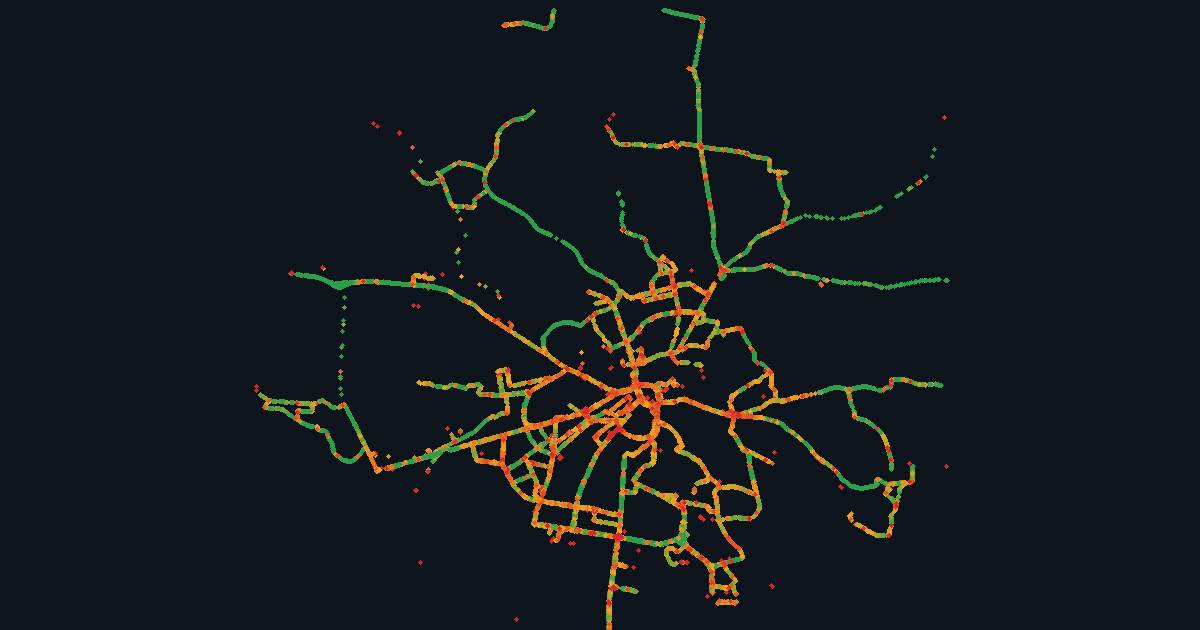
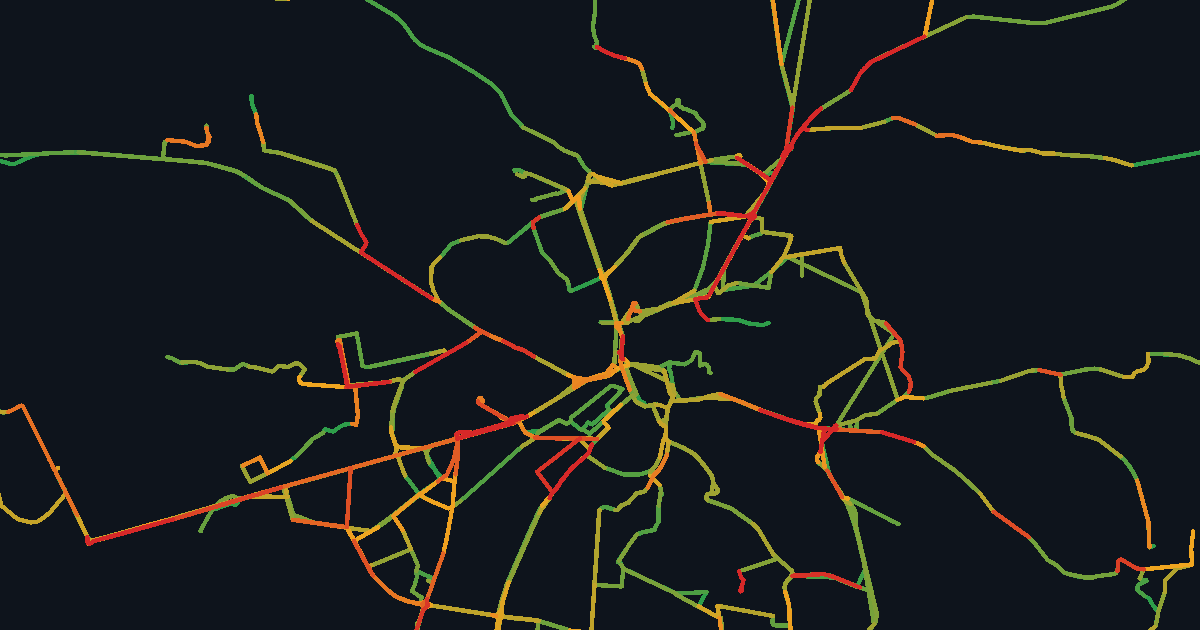
og.png: draw the ride-time map, not speed dots
Colour every leg by weekday 08:00 delay against its off-peak, as the
viewer does, framed on the core of the network. Alt text to match.

diff --git a/web/index.html b/web/index.html
@@ -33,7 +33,7 @@
     <meta property="og:image:height" content="630" />
     <meta
       property="og:image:alt"
-      content="The Lviv bus network drawn as coloured dots, green on the fast outer roads and red through the centre."
+      content="Every Lviv bus leg drawn as a line on a dark ground: green where weekday 08:00 runs as quick as off-peak, red where it takes twice as long, mostly on the radial roads into the centre."
     />
     <meta property="og:locale" content="en_GB" />
 
@@ -46,7 +46,7 @@
     <meta name="twitter:image" content="https://gtfs-speedmap.vbhjckfd.workers.dev/og.png" />
     <meta
       name="twitter:image:alt"
-      content="The Lviv bus network drawn as coloured dots, green on the fast outer roads and red through the centre."
+      content="Every Lviv bus leg drawn as a line on a dark ground: green where weekday 08:00 runs as quick as off-peak, red where it takes twice as long, mostly on the radial roads into the centre."
     />
 
     <script type="application/ld+json">

diff --git a/src/speedmap/make_og.py b/src/speedmap/make_og.py
@@ -1,9 +1,8 @@
-"""Render web/og.png — the social preview — from the aggregated data itself.
+"""Render web/og.png — the social preview — from the built map files themselves.
 
 Deliberately dependency-free: a 1200x630 RGB buffer written out as a PNG by
 hand, so the project keeps its `pip install` down to the pipeline's needs. No
-basemap, just the dots on a dark ground, which is what the map is recognisable
-by anyway.
+basemap, just every leg on a dark ground, coloured as the map colours it.
 
 Run: python -m speedmap.make_og
 """
@@ -16,17 +15,18 @@ import struct
 import sys
 import zlib
 
-from .config import SCALE_HIGH_KMH, SCALE_LOW_KMH, WEB_DATA_DIR
+from .config import WEB_DATA_DIR
 
 WIDTH, HEIGHT = 1200, 630
 MARGIN = 28
 BACKGROUND = (14, 20, 28)
-DOT_RADIUS = 2
-# Weekday 08:00 — the busiest hour, and the most red/green contrast. Weekdays
-# rather than all days, since the weekend dilutes exactly what makes it a peak.
-SOURCE = "all-wd-08"
-
-# Same ramp as web/app.js.
+LINE_RADIUS = 2.2
+# Weekday 08:00 — the busiest hour, and the most red/green contrast.
+DAYTYPE, HOUR = "wd", 8
+METRIC = "med"
+# Same as web/app.js.
+DELAY_HIGH = 1.0
+OFFPEAK_MIN_RIDES = 10
 RAMP = ((0.0, (214, 40, 40)), (0.5, (240, 166, 32)), (1.0, (46, 158, 74)))
 
 
@@ -41,11 +41,35 @@ def ramp(t: float) -> tuple[int, int, int]:
     return RAMP[-1][1]
 
 
-def _clip(values: list[float], tail: float = 0.01) -> tuple[float, float]:
-    """The value range holding all but the outermost `tail` at each end."""
-    ordered = sorted(values)
-    last = len(ordered) - 1
-    return ordered[int(last * tail)], ordered[int(last * (1 - tail))]
+def leg_delays(routes: list[dict], hourly: dict[int, dict], hour: int) -> dict:
+    """Delay per stop pair at `hour`, as the viewer computes it.
+
+    Routes sharing a stop pair are pooled, weighted by rides; the off-peak is
+    the quickest hour with at least OFFPEAK_MIN_RIDES pooled rides.
+    """
+    pooled: dict[tuple[str, str], dict[int, list[float]]] = {}
+    for r in routes:
+        key = f"{r['route']}|{r['dir']}"
+        for h, data in hourly.items():
+            row = data.get(key)
+            if not row:
+                continue
+            for i, (a, b) in enumerate(zip(r["path"], r["path"][1:])):
+                t, n = row[METRIC][i], row["n"][i]
+                if t is None or not n:
+                    continue
+                acc = pooled.setdefault((a, b), {}).setdefault(h, [0.0, 0])
+                acc[0] += t * n
+                acc[1] += n
+    delays = {}
+    for pair, by_hour in pooled.items():
+        if hour not in by_hour:
+            continue
+        busy = [s / n for s, n in by_hour.values() if n >= OFFPEAK_MIN_RIDES]
+        if busy:
+            s, n = by_hour[hour]
+            delays[pair] = s / n / min(busy) - 1
+    return delays
 
 
 def mercator_y(lat: float) -> float:
@@ -74,46 +98,90 @@ def write_png(path, pixels: bytearray, width: int, height: int) -> None:
     path.write_bytes(png)
 
 
-def build() -> None:
-    source = WEB_DATA_DIR / f"{SOURCE}.json"
-    if not source.exists():
-        raise SystemExit(f"{source} missing — run `make build` first")
-    data = json.loads(source.read_text())
-    lats, lons, speeds = data["lat"], data["lon"], data["v"]
-    if not lats:
-        raise SystemExit(f"{source} has no cells")
+def _clip(values: list[float], tail: float = 0.15) -> tuple[float, float]:
+    """The value range holding all but the outermost `tail` at each end."""
+    ordered = sorted(values)
+    last = len(ordered) - 1
+    return ordered[int(last * tail)], ordered[int(last * (1 - tail))]
 
-    # Fit the drawing to the data, keeping the Mercator aspect honest so the
-    # city is not stretched. A handful of long suburban routes reach far past
-    # the city; framing on the full extent shrinks Lviv to a blob in the
-    # middle, so clip the frame to the bulk of the cells.
-    lat_lo, lat_hi = _clip(lats)
-    lon_lo, lon_hi = _clip(lons)
-    y_lo, y_hi = mercator_y(lat_lo), mercator_y(lat_hi)
+
+def _shape_legs(route: dict, stops: dict):
+    """(leg index, start point, end point) for each segment of the route's shape.
+
+    A route whose stops its shape cannot account for has none; it is drawn as
+    the chain of its own stops, as the viewer does.
+    """
+    if "shape" not in route:
+        points = [stops[s] for s in route["path"]]
+        yield from ((i, p, q) for i, (p, q) in enumerate(zip(points, points[1:])))
+        return
+    shape, dist = route["shape"], route["dist"]
+    along, leg = 0.0, 0
+    for p, q in zip(shape, shape[1:]):
+        while leg < len(dist) - 2 and along >= dist[leg + 1]:
+            leg += 1
+        yield leg, p, q
+        dy = (q[0] - p[0]) * 111_320
+        dx = (q[1] - p[1]) * 111_320 * math.cos(math.radians(p[0]))
+        along += math.hypot(dx, dy)
+
+
+def build() -> None:
+    index = json.loads((WEB_DATA_DIR / "index.json").read_text())
+    full = [m["key"] for m in index["months"] if not m["part"]]
+    month = (full or [m["key"] for m in index["months"]])[-1]
+    paths = json.loads((WEB_DATA_DIR / f"paths-{month}.json").read_text())
+    hourly = {}
+    for h in index["hours"]:
+        f = WEB_DATA_DIR / f"rides-{month}-{DAYTYPE}-{h:02d}.json"
+        if f.exists():
+            hourly[h] = json.loads(f.read_text())
+    delays = leg_delays(paths["routes"], hourly, HOUR)
+    if not delays:
+        raise SystemExit(f"{month}: no timed legs — run `make build` first")
+
+    # Frame on the bulk of the stops: a few suburban routes reach far past the
+    # city and would shrink Lviv to a blob in the middle.
+    stops = paths["stops"].values()
+    lat_lo, lat_hi = _clip([s[0] for s in stops])
+    lon_lo, lon_hi = _clip([s[1] for s in stops])
+    y_hi = mercator_y(lat_hi)
     span_x = math.radians(lon_hi - lon_lo)
-    span_y = y_hi - y_lo
+    span_y = y_hi - mercator_y(lat_lo)
     scale = min((WIDTH - 2 * MARGIN) / span_x, (HEIGHT - 2 * MARGIN) / span_y)
     off_x = (WIDTH - span_x * scale) / 2
     off_y = (HEIGHT - span_y * scale) / 2
 
-    pixels = bytearray(BACKGROUND * (WIDTH * HEIGHT))
+    def px(p):
+        return (
+            off_x + (math.radians(p[1]) - math.radians(lon_lo)) * scale,
+            off_y + (y_hi - mercator_y(p[0])) * scale,
+        )
 
-    for lat, lon, kmh in zip(lats, lons, speeds):
-        px = int(off_x + (math.radians(lon) - math.radians(lon_lo)) * scale)
-        py = int(off_y + (y_hi - mercator_y(lat)) * scale)
-        r, g, b = ramp((kmh - SCALE_LOW_KMH) / (SCALE_HIGH_KMH - SCALE_LOW_KMH))
-        for dy in range(-DOT_RADIUS, DOT_RADIUS + 1):
-            for dx in range(-DOT_RADIUS, DOT_RADIUS + 1):
-                if dx * dx + dy * dy > DOT_RADIUS * DOT_RADIUS:
-                    continue
-                x, y = px + dx, py + dy
-                if 0 <= x < WIDTH and 0 <= y < HEIGHT:
-                    i = (y * WIDTH + x) * 3
-                    pixels[i : i + 3] = bytes((r, g, b))
+    segments = []
+    for r in paths["routes"]:
+        for leg, p, q in _shape_legs(r, paths["stops"]):
+            d = delays.get((r["path"][leg], r["path"][leg + 1]))
+            if d is not None:
+                segments.append((d, px(p), px(q)))
+    segments.sort(key=lambda s: s[0])  # red on top, where the story is
+
+    pixels = bytearray(BACKGROUND * (WIDTH * HEIGHT))
+    reach = math.ceil(LINE_RADIUS)
+    for d, (x0, y0), (x1, y1) in segments:
+        colour = bytes(ramp(1 - d / DELAY_HIGH))
+        steps = max(1, int(math.hypot(x1 - x0, y1 - y0)))
+        for k in range(steps + 1):
+            cx, cy = x0 + (x1 - x0) * k / steps, y0 + (y1 - y0) * k / steps
+            for y in range(int(cy) - reach, int(cy) + reach + 1):
+                for x in range(int(cx) - reach, int(cx) + reach + 1):
+                    if 0 <= x < WIDTH and 0 <= y < HEIGHT and (x - cx) ** 2 + (y - cy) ** 2 <= LINE_RADIUS**2:
+                        i = (y * WIDTH + x) * 3
+                        pixels[i : i + 3] = colour
 
     out = WEB_DATA_DIR.parent / "og.png"
     write_png(out, pixels, WIDTH, HEIGHT)
-    print(f"{out} — {len(lats):,} cells, {out.stat().st_size / 1024:.0f} KB")
+    print(f"{out} — {month}, {len(delays):,} legs, {out.stat().st_size / 1024:.0f} KB")
 
 
 def main(argv: list[str] | None = None) -> int:

diff --git a/tests/test_make_og.py b/tests/test_make_og.py
@@ -1,0 +1,23 @@
+from speedmap.make_og import leg_delays
+
+ROUTES = [
+    {"route": "1", "dir": "0", "path": ["a", "b"]},
+    {"route": "2", "dir": "0", "path": ["a", "b"]},
+]
+
+
+def row(t, n):
+    return {"med": [t], "avg": [t], "n": [n]}
+
+
+def test_pools_routes_by_rides_and_compares_with_quickest_busy_hour():
+    hourly = {
+        8: {"1|0": row(200, 10), "2|0": row(100, 10)},  # pooled 150
+        22: {"1|0": row(100, 5), "2|0": row(50, 5)},  # pooled 75, 10 rides
+        23: {"1|0": row(10, 2)},  # quicker but too few rides to be the off-peak
+    }
+    assert leg_delays(ROUTES, hourly, 8) == {("a", "b"): 1.0}
+
+
+def test_leg_without_a_busy_hour_has_no_delay():
+    assert leg_delays(ROUTES, {8: {"1|0": row(100, 3)}}, 8) == {}
